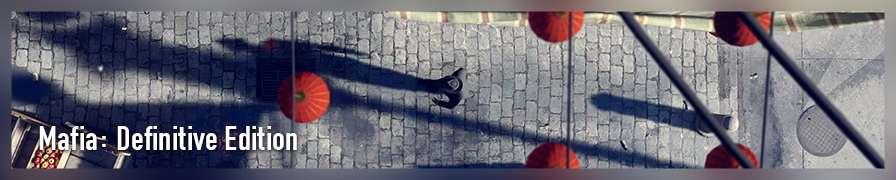
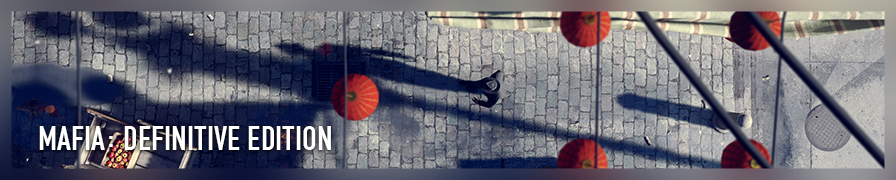
Added gow guide (JackH), updated shots for deathloop/mafiade (jackh)

diff --git a/markdown/GameGuides/gow.md b/markdown/GameGuides/gow.md
@@ -1,0 +1,29 @@
+![God Of War](Images\gow_header.png "Shot by Otis_Inf"){.shadowed}
+
+## Summary
+
+Feature | Supported
+--|--
+Vanilla Photo Mode | Yes
+Hotsampling | Yes
+DSR | Yes
+Custom Aspect Ratios | Yes
+Reshade | Yes 
+Ansel | No
+DirectX versions | DirectX 11
+ 
+## Tools
+
+* [Camera tools by Otis_Inf](https://patreon.com/Otis_Inf)  
+**Features**: Camera control, FoV control, HUD toggle, timestop/gamespeed, hotsampling, level of detail enhancements, camera paths
+
+
+
+## Tips and Tricks
+
+* When hotsampling or alt-tabbing out of the game, stop the inventory screen showing up by going to settings > gameplay and disable 'Pause On Focus Lock'.
+
+## Useful Links
+
+* [PC Gaming Wiki](https://pcgamingwiki.com/wiki/Game_Title)
+
